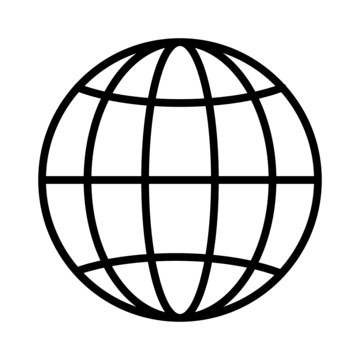
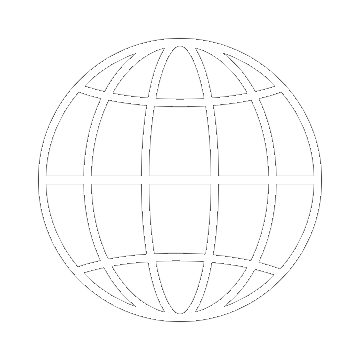
Improve jersey selector: flag images, in-team-header placement, and fixed /colors
- Moved jersey buttons from admin panel into team headers (next to Katıl)
- Replaced shirt emoji with actual red_shirt.png / blue_shirt.png images
- Replaced emoji flags with PNG flag images (tr, uk, es, it, de, fr, globe)
- Fixed /colors command to accept variable color counts (1-4)
- Added setTeamColors socket event for direct color application
- Added flag assets to both assets/ and public/assets/

🤖 Generated with Codebuff

Changed region(s): [[0.0917, 0.0917, 0.9167, 0.9167]]

diff --git a/src/ui/screens/RoomLobby.js b/src/ui/screens/RoomLobby.js
@@ -728,37 +728,37 @@ export class RoomLobby {
   }
 
   _setupJerseySelector() {
-    // Jersey presets with flags
+    // Jersey presets with flag images
     const presets = [
-      { name: 'Galatasaray', angle: 0, textColor: 'FFFFFF', colors: ['FFFFFF','F28C28','8A1538'], flag: '🇹🇷' },
-      { name: 'Fenerbahçe', angle: 0, textColor: 'FFFFFF', colors: ['FFFFFF','FFC900','002D72','FFC900'], flag: '🇹🇷' },
-      { name: 'Beşiktaş', angle: 0, textColor: '111111', colors: ['111111','FFFFFF'], flag: '🇹🇷' },
-      { name: 'Trabzonspor', angle: 0, textColor: 'FFFFFF', colors: ['FFFFFF','7A1731','2A9FD6','7A1731'], flag: '🇹🇷' },
-      { name: 'Rizespor', angle: 0, textColor: 'FFFFFF', colors: ['FFFFFF','13107A','00945F','13107A'], flag: '🇹🇷' },
-      { name: 'Manchester United', angle: 0, textColor: 'FFFFFF', colors: ['FFFFFF','DA291C'], flag: '🏴' },
-      { name: 'Manchester City', angle: 0, textColor: 'FFFFFF', colors: ['FFFFFF','6CABDD'], flag: '🏴' },
-      { name: 'Liverpool', angle: 0, textColor: 'FFFFFF', colors: ['FFFFFF','DA291C'], flag: '🏴' },
-      { name: 'Arsenal', angle: 0, textColor: 'FFFFFF', colors: ['FFFFFF','DA291C'], flag: '🏴' },
-      { name: 'Chelsea', angle: 0, textColor: 'eecc1d', colors: ['eecc1d','034694'], flag: '🏴' },
-      { name: 'Aston Villa', angle: 0, textColor: 'bbd2f2', colors: ['bbd2f2','6E303F'], flag: '🏴' },
-      { name: 'Real Madrid', angle: 0, textColor: '143832', colors: ['143832','FFFFFF'], flag: '🇪🇸' },
-      { name: 'Barcelona', angle: 0, textColor: 'dd9721', colors: ['dd9721','2C3F83','781028'], flag: '🇪🇸' },
-      { name: 'Atlético Madrid', angle: 0, textColor: '0f5ac5', colors: ['0f5ac5','FFFFFF','D40424','FFFFFF'], flag: '🇪🇸' },
-      { name: 'Juventus', angle: 0, textColor: 'd4be88', colors: ['d4be88','000000','FFFFFF','000000'], flag: '🇮🇹' },
-      { name: 'Inter Milan', angle: 0, textColor: 'f0ba56', colors: ['f0ba56','0068A8','000000','0068A8'], flag: '🇮🇹' },
-      { name: 'AC Milan', angle: 0, textColor: 'FFFFFF', colors: ['FFFFFF','000000','AC1F2D','000000'], flag: '🇮🇹' },
-      { name: 'Bayern Munich', angle: 0, textColor: 'FFFFFF', colors: ['FFFFFF','DC052D'], flag: '🇩🇪' },
-      { name: 'Borussia Dortmund', angle: 0, textColor: '000000', colors: ['000000','FDE100'], flag: '🇩🇪' },
-      { name: 'Paris Saint-Germain', angle: 0, textColor: 'FFFFFF', colors: ['FFFFFF','002A8A','DC0B28','002A8A'], flag: '🇫🇷' },
-      { name: 'Türkiye', angle: 0, textColor: 'FFFFFF', colors: ['FFFFFF','D0021B'], flag: 'globe' },
-      { name: 'Arjantin', angle: 0, textColor: '000000', colors: ['000000','75AADB','FFFFFF','75AADB'], flag: 'globe' },
-      { name: 'İspanya', angle: 0, textColor: 'F1BF00', colors: ['F1BF00','AA151B'], flag: 'globe' },
-      { name: 'Fransa', angle: 0, textColor: 'FFFFFF', colors: ['FFFFFF','243567'], flag: 'globe' },
-      { name: 'İngiltere', angle: 0, textColor: '000000', colors: ['000000','DEE2E5'], flag: 'globe' },
-      { name: 'İtalya', angle: 0, textColor: 'FFFFFF', colors: ['FFFFFF','0067B1'], flag: 'globe' },
-      { name: 'Portekiz', angle: 0, textColor: 'FFFFFF', colors: ['FFFFFF','9D2639'], flag: 'globe' },
-      { name: 'Brezilya', angle: 0, textColor: '0f4a36', colors: ['0f4a36','EED04B'], flag: 'globe' },
-      { name: 'Almanya', angle: 90, textColor: 'FFFFFF', colors: ['FFFFFF','000000','DD0000','FFCE00'], flag: 'globe' },
+      { name: 'Galatasaray', angle: 0, textColor: 'FFFFFF', colors: ['FFFFFF','F28C28','8A1538'], flag: '/assets/tr.png' },
+      { name: 'Fenerbahçe', angle: 0, textColor: 'FFFFFF', colors: ['FFFFFF','FFC900','002D72','FFC900'], flag: '/assets/tr.png' },
+      { name: 'Beşiktaş', angle: 0, textColor: '111111', colors: ['111111','FFFFFF'], flag: '/assets/tr.png' },
+      { name: 'Trabzonspor', angle: 0, textColor: 'FFFFFF', colors: ['FFFFFF','7A1731','2A9FD6','7A1731'], flag: '/assets/tr.png' },
+      { name: 'Rizespor', angle: 0, textColor: 'FFFFFF', colors: ['FFFFFF','13107A','00945F','13107A'], flag: '/assets/tr.png' },
+      { name: 'Manchester United', angle: 0, textColor: 'FFFFFF', colors: ['FFFFFF','DA291C'], flag: '/assets/uk.png' },
+      { name: 'Manchester City', angle: 0, textColor: 'FFFFFF', colors: ['FFFFFF','6CABDD'], flag: '/assets/uk.png' },
+      { name: 'Liverpool', angle: 0, textColor: 'FFFFFF', colors: ['FFFFFF','DA291C'], flag: '/assets/uk.png' },
+      { name: 'Arsenal', angle: 0, textColor: 'FFFFFF', colors: ['FFFFFF','DA291C'], flag: '/assets/uk.png' },
+      { name: 'Chelsea', angle: 0, textColor: 'eecc1d', colors: ['eecc1d','034694'], flag: '/assets/uk.png' },
+      { name: 'Aston Villa', angle: 0, textColor: 'bbd2f2', colors: ['bbd2f2','6E303F'], flag: '/assets/uk.png' },
+      { name: 'Real Madrid', angle: 0, textColor: '143832', colors: ['143832','FFFFFF'], flag: '/assets/es.png' },
+      { name: 'Barcelona', angle: 0, textColor: 'dd9721', colors: ['dd9721','2C3F83','781028'], flag: '/assets/es.png' },
+      { name: 'Atlético Madrid', angle: 0, textColor: '0f5ac5', colors: ['0f5ac5','FFFFFF','D40424','FFFFFF'], flag: '/assets/es.png' },
+      { name: 'Juventus', angle: 0, textColor: 'd4be88', colors: ['d4be88','000000','FFFFFF','000000'], flag: '/assets/it.png' },
+      { name: 'Inter Milan', angle: 0, textColor: 'f0ba56', colors: ['f0ba56','0068A8','000000','0068A8'], flag: '/assets/it.png' },
+      { name: 'AC Milan', angle: 0, textColor: 'FFFFFF', colors: ['FFFFFF','000000','AC1F2D','000000'], flag: '/assets/it.png' },
+      { name: 'Bayern Munich', angle: 0, textColor: 'FFFFFF', colors: ['FFFFFF','DC052D'], flag: '/assets/de.png' },
+      { name: 'Borussia Dortmund', angle: 0, textColor: '000000', colors: ['000000','FDE100'], flag: '/assets/de.png' },
+      { name: 'Paris Saint-Germain', angle: 0, textColor: 'FFFFFF', colors: ['FFFFFF','002A8A','DC0B28','002A8A'], flag: '/assets/fr.png' },
+      { name: 'Türkiye', angle: 0, textColor: 'FFFFFF', colors: ['FFFFFF','D0021B'], flag: '/assets/tr.png' },
+      { name: 'Arjantin', angle: 0, textColor: '000000', colors: ['000000','75AADB','FFFFFF','75AADB'], flag: '/assets/globe.png' },
+      { name: 'İspanya', angle: 0, textColor: 'F1BF00', colors: ['F1BF00','AA151B'], flag: '/assets/es.png' },
+      { name: 'Fransa', angle: 0, textColor: 'FFFFFF', colors: ['FFFFFF','243567'], flag: '/assets/fr.png' },
+      { name: 'İngiltere', angle: 0, textColor: '000000', colors: ['000000','DEE2E5'], flag: '/assets/uk.png' },
+      { name: 'İtalya', angle: 0, textColor: 'FFFFFF', colors: ['FFFFFF','0067B1'], flag: '/assets/it.png' },
+      { name: 'Portekiz', angle: 0, textColor: 'FFFFFF', colors: ['FFFFFF','9D2639'], flag: '/assets/globe.png' },
+      { name: 'Brezilya', angle: 0, textColor: '0f4a36', colors: ['0f4a36','EED04B'], flag: '/assets/globe.png' },
+      { name: 'Almanya', angle: 90, textColor: 'FFFFFF', colors: ['FFFFFF','000000','DD0000','FFCE00'], flag: '/assets/de.png' },
     ];
 
     // Build a dropdown for a given team ('red' or 'blue')
@@ -767,9 +767,7 @@ export class RoomLobby {
       if (!dropdown) return;
 
       dropdown.innerHTML = presets.map((p, i) => {
-        const flagHtml = p.flag === 'globe'
-          ? `<img src="/assets/globe.png" style="width:16px; height:16px; border-radius:2px; object-fit:cover;" />`
-          : `<span style="font-size:16px; line-height:1;">${p.flag}</span>`;
+        const flagHtml = `<img src="${p.flag}" style="width:16px; height:16px; border-radius:2px; object-fit:cover; flex-shrink:0;" />`;
         return `
           <div class="jersey-preset-item" data-idx="${i}" style="display:flex; align-items:center; gap:8px; padding:6px 10px; border-radius:8px; cursor:pointer; transition:background 0.15s; font-size:13px; color:var(--text-primary);">
             ${flagHtml}
